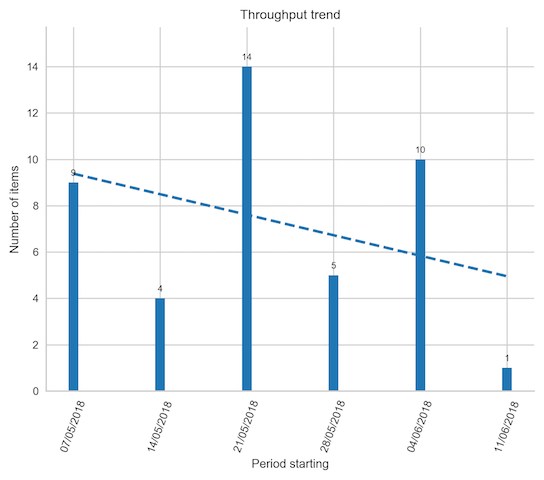
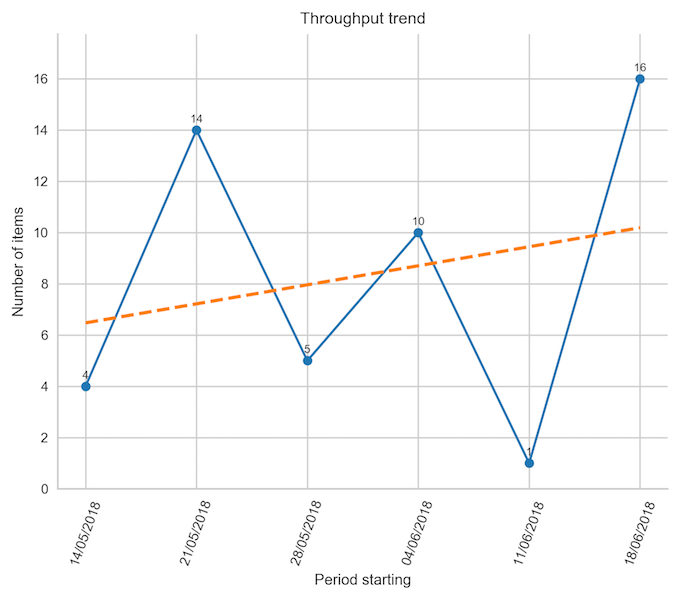
Turn throughput chart into a line chart

diff --git a/jira_agile_metrics/calculators/throughput.py b/jira_agile_metrics/calculators/throughput.py
@@ -84,7 +84,7 @@ class ThroughputCalculator(Calculator):
         ax.set_xlabel("Period starting")
         ax.set_ylabel("Number of items")
 
-        ax.bar(chart_data.index, chart_data['count'])
+        ax.plot(chart_data.index, chart_data['count'], marker='o')
         plt.xticks(chart_data.index, [d.date().strftime('%d/%m/%Y') for d in chart_data.index], rotation=70, size='small')
 
         _, top = ax.get_ylim()

diff --git a/setup.py b/setup.py
@@ -13,7 +13,7 @@ with open(path.join(here, 'requirements.txt')) as f:
 
 setup(
     name='jira-agile-metrics',
-    version='0.6',
+    version='0.7',
     description='Agile metrics and summary data extracted from JIRA',
     long_description=long_description,
     long_description_content_type="text/markdown",

diff --git a/README.md b/README.md
@@ -998,6 +998,10 @@ These options name data files to write. Use an extension of `.csv`, `.xlsx`, or
 
 ## Changelog
 
+### 0.7
+
+* Turn throughput chart into a line chart
+
 ### 0.6
 
 * Don't log every list value resolution at debug
